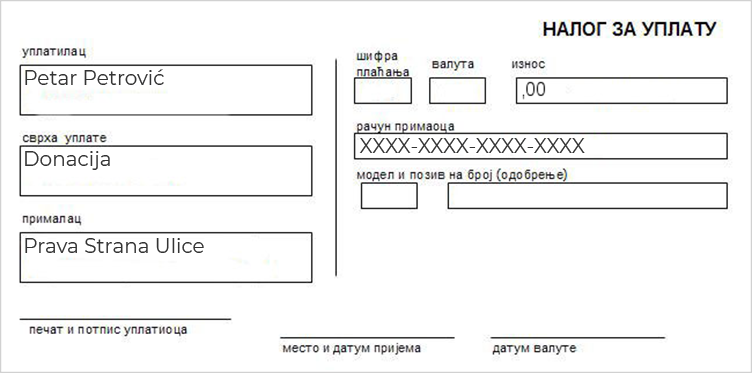
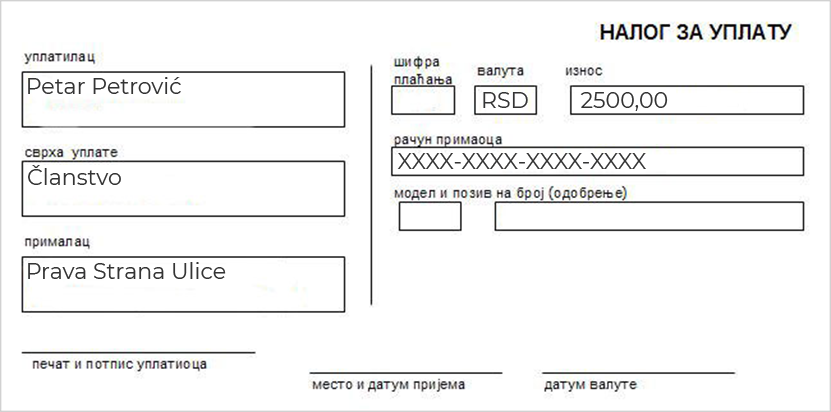
gg wp - gl hf

diff --git a/html/become-member.html b/html/become-member.html
@@ -88,6 +88,72 @@
 					<div class="content">
 						<h2>POSTANI ČLAN</h2>
 						<p>It is a long established fact that a reader will be distracted by the readable content of a page when looking at its layout. The point of using Lorem Ipsum is that it has a more-or-less normal distribution of letters, as opposed to using 'Content here, content here', making it look like readable English. Many desktop publishing packages and web page editors now use Lorem Ipsum as their default model text, and a search for 'lorem ipsum' will uncover many web sites still in their infancy. Various versions have evolved over the years, sometimes by accident, sometimes on purpose (injected humour and the like). Many desktop publishing packages and web page editors now use Lorem.</p>
+						<div class="membership-level">
+							<div class="sw-mem-lvl-box box-one">
+								<div class="sw-mem-box-top"><span class="icon font-ico-user"></span>
+									<h1 class="h4">SW Enthusiast</h1>
+								</div>
+								<div class="sw-mem-box-bottom">
+									<div class="box-bottom-top">
+										<p>Majica</p>
+									</div>
+									<div class="box-bottom-btn">
+										<button type="button" value="choose" class="btn btn-small">Izaberi</button>
+									</div>
+								</div>
+							</div>
+							<div class="sw-mem-lvl-box box-one">
+								<div class="sw-mem-box-top"><span class="icon font-ico-user"></span>
+									<h1 class="h4">SW Beginner</h1>
+								</div>
+								<div class="sw-mem-box-bottom">
+									<div class="box-bottom-top">
+										<p>Majica</p>
+										<p>Praćenje liga</p>
+										<p>5%</p>
+									</div>
+									<div class="box-bottom-btn">
+										<button type="button" value="choose" class="btn btn-small">Izaberi</button>
+									</div>
+								</div>
+							</div>
+							<div class="sw-mem-lvl-box box-one">
+								<div class="sw-mem-box-top"><span class="icon font-ico-user"></span>
+									<h1 class="h4">SW Advanced</h1>
+								</div>
+								<div class="sw-mem-box-bottom">
+									<div class="box-bottom-top">
+										<p>Majica</p>
+										<p>Praćenje liga</p>
+										<p>10%</p>
+										<p>Nadzorni odbor</p>
+									</div>
+									<div class="box-bottom-btn">
+										<button type="button" value="choose" class="btn btn-small">Izaberi</button>
+									</div>
+								</div>
+							</div>
+							<div class="sw-mem-lvl-box">
+								<div class="sw-mem-box-top"><span class="icon font-ico-user"></span>
+									<h1 class="h4">SW Professional</h1>
+								</div>
+								<div class="sw-mem-box-bottom">
+									<div class="box-bottom-top">
+										<p>Majica</p>
+										<p>Praćenje liga</p>
+										<p>15%</p>
+										<p>Upravni odbor</p>
+										<p>Uvažavanje</p>
+									</div>
+									<div class="box-bottom-btn">
+										<button type="button" value="choose" class="btn btn-small">Izaberi</button>
+									</div>
+								</div>
+							</div>
+						</div>
+						<div class="receipt-img">
+							<img src="././images/content/uplatnica.png">
+						</div>
 						<form>
 							<input type="text" name="name" placeholder="Ime" maxlength="24" title="Ime">
 							<input type="text" name="surname" placeholder="Prezime" maxlength="24" title="Prezime">
@@ -97,6 +163,7 @@
 							<input type="text" name="adress" placeholder="Adresa stanovanja" maxlength="24" title="Adresa stanovanja">
 							<input type="text" name="mblnumber" placeholder="Broj telefona" maxlength="24" title="Broj telefona">
 							<input type="email" name="e-mail" placeholder="E-mail" maxlength="24" title="Email adresa">
+							<p>+ Uploaduj sliku uplatnice</p>
 							<button class="btn" type="submit" name="submit" value="Postani član">Postani član</button>
 						</form>
 						<div class="pdf-download">

diff --git a/html/_templates/pages/become-member.html b/html/_templates/pages/become-member.html
@@ -12,6 +12,64 @@
 				<div class="content">
 					<h2>POSTANI ČLAN</h2>
 					<p>It is a long established fact that a reader will be distracted by the readable content of a page when looking at its layout. The point of using Lorem Ipsum is that it has a more-or-less normal distribution of letters, as opposed to using 'Content here, content here', making it look like readable English. Many desktop publishing packages and web page editors now use Lorem Ipsum as their default model text, and a search for 'lorem ipsum' will uncover many web sites still in their infancy. Various versions have evolved over the years, sometimes by accident, sometimes on purpose (injected humour and the like). Many desktop publishing packages and web page editors now use Lorem.</p>
+					<div class="membership-level">
+						<div class="sw-mem-lvl-box box-one">
+							<div class="sw-mem-box-top"><span class="icon font-ico-user"></span><h1 class="h4">SW Enthusiast</h1></div>
+							<div class="sw-mem-box-bottom">
+								<div class="box-bottom-top">
+									<p>Majica</p>
+								</div>
+								<div class="box-bottom-btn">
+									<button type="button" value="choose" class="btn btn-small">Izaberi</button>
+								</div>
+							</div>
+						</div>
+						<div class="sw-mem-lvl-box box-one">
+							<div class="sw-mem-box-top"><span class="icon font-ico-user"></span><h1 class="h4">SW Beginner</h1></div>
+							<div class="sw-mem-box-bottom">
+								<div class="box-bottom-top">
+									<p>Majica</p>
+									<p>Praćenje liga</p>
+									<p>5%</p>
+								</div>
+								<div class="box-bottom-btn">
+									<button type="button" value="choose" class="btn btn-small">Izaberi</button>
+								</div>
+							</div>
+						</div>
+						<div class="sw-mem-lvl-box box-one">
+							<div class="sw-mem-box-top"><span class="icon font-ico-user"></span><h1 class="h4">SW Advanced</h1></div>
+							<div class="sw-mem-box-bottom">
+								<div class="box-bottom-top">
+									<p>Majica</p>
+									<p>Praćenje liga</p>
+									<p>10%</p>
+									<p>Nadzorni odbor</p>
+								</div>
+								<div class="box-bottom-btn">
+									<button type="button" value="choose" class="btn btn-small">Izaberi</button>
+								</div>
+							</div>
+						</div>
+						<div class="sw-mem-lvl-box">
+							<div class="sw-mem-box-top"><span class="icon font-ico-user"></span><h1 class="h4">SW Professional</h1></div>
+							<div class="sw-mem-box-bottom">
+								<div class="box-bottom-top">
+									<p>Majica</p>
+									<p>Praćenje liga</p>
+									<p>15%</p>
+									<p>Upravni odbor</p>
+									<p>Uvažavanje</p>
+								</div>
+								<div class="box-bottom-btn">
+									<button type="button" value="choose" class="btn btn-small">Izaberi</button>
+								</div>
+							</div>
+						</div>
+					</div>
+					<div class="receipt-img">
+					<img src="././images/content/uplatnica.png">
+					</div>
 					<form>
 						<input type="text" name="name" placeholder="Ime" maxlength="24" title="Ime">
 						<input type="text" name="surname" placeholder="Prezime" maxlength="24" title="Prezime">
@@ -21,6 +79,7 @@
 						<input type="text" name="adress" placeholder="Adresa stanovanja" maxlength="24" title="Adresa stanovanja">
 						<input type="text" name="mblnumber" placeholder="Broj telefona" maxlength="24" title="Broj telefona">
 						<input type="email" name="e-mail" placeholder="E-mail" maxlength="24" title="Email adresa">
+						<p>+ Uploaduj sliku uplatnice</p>
 						<button class="btn" type="submit" name="submit" value="Postani član">Postani član</button>
 					</form>
 					<div class="pdf-download">

diff --git a/html/css/modules/_become-member.scss b/html/css/modules/_become-member.scss
@@ -1,5 +1,64 @@
 //----------  become member
 //------------------------------------------------------------------------------
+.membership-level {
+	width: 100%;
+	height: auto;
+	padding-bottom: 10px;
+	padding-top: 50px;
+	.sw-mem-lvl-box {
+		width: 25%;
+		height: 630px;
+		float: left;
+		margin-bottom: 100px;
+		.sw-mem-box-top {
+			width: 100%;
+			height: 130px;
+			background: $red;
+			text-align: center;
+			span {
+				padding-top: 40px;
+				color: $white;
+			}
+			h1 {
+				text-transform: none;
+				color: $white;
+			}
+		}
+		.sw-mem-box-bottom {
+			width: 100%;
+			height: 500px;
+			background: $white;
+			text-align: center;
+			.box-bottom-top {
+				height: 350px;
+				padding-top: 50px;
+			}
+			button {
+				margin-top: 50px;
+			}
+			p {
+				padding-bottom: 22px;
+				text-align: center;
+				font-weight: 700;
+			}
+		}
+	}
+}
+
+.box-one {
+	padding-right: 20px;
+}
+
+.receipt-img {
+	width: 100%;
+	min-height: 100px;
+	text-align: center;
+	padding-top: 80px;
+	padding-bottom: 20px;
+	img {
+		margin-top: 50px 0;
+	}
+}
 
 .bememe {
 	width: 100%;
@@ -19,8 +78,11 @@
 			width: auto;
 			height: auto;
 			padding: 50px 0;
+			padding-bottom: 50px;
 			text-align: center;
 			button {
+				font-size: 24px;
+				text-transform: none;
 				margin-top: 50px;
 			}
 			input {
@@ -33,6 +95,16 @@
 				border-radius: 25px;
 				border: 1px solid #d7d7d7;
 			    box-shadow: 1px 1px 5px #d7d7d7;
+			}
+			span {
+				font-size: 28px;
+				color: $red;
+			}
+			p {
+				margin-top: 70px;
+				text-align: center;
+				color: $red;
+				font-size: 24px;
 			}
 		}
 		.pdf-download {
@@ -50,6 +122,12 @@
 	@include breakpoint(phone) {
 		.wrap {
 			.content {
+				.membership-level {
+					.sw-mem-lvl-box {
+						width: 50%;
+						padding: 0 10px;
+					}
+				}
 				h2 {
 					font-size: 30px;
 				}

diff --git a/html/css/shared/_footer.scss b/html/css/shared/_footer.scss
@@ -77,7 +77,7 @@
 				}
 				button {
 					margin: 0 auto;
-					margin-top: 40px; 
+					margin-top: 40px;
 					float: none;
 				}
 				.footer-info-contact-social-icons {
@@ -115,6 +115,7 @@
 .popular-blog-heading {
 	width: 327px;
 	padding-left: 40px;
+	margin-top: -3px;
 	text-align: justify;
 }
 

diff --git a/html/css/modules/_log-in.scss b/html/css/modules/_log-in.scss
@@ -13,9 +13,6 @@
 			}
 		}
 	}
-	@include breakpoint(phone) {
-
-	}
 }
 
 .btn-log-in {
